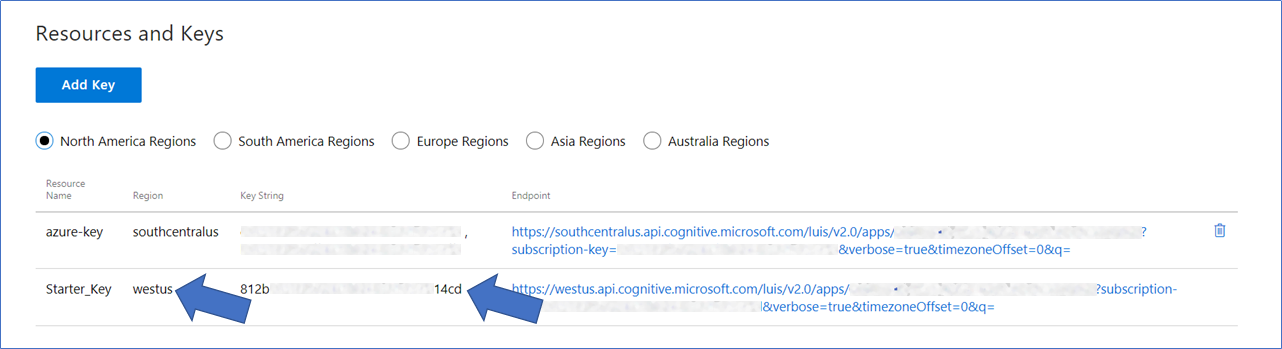
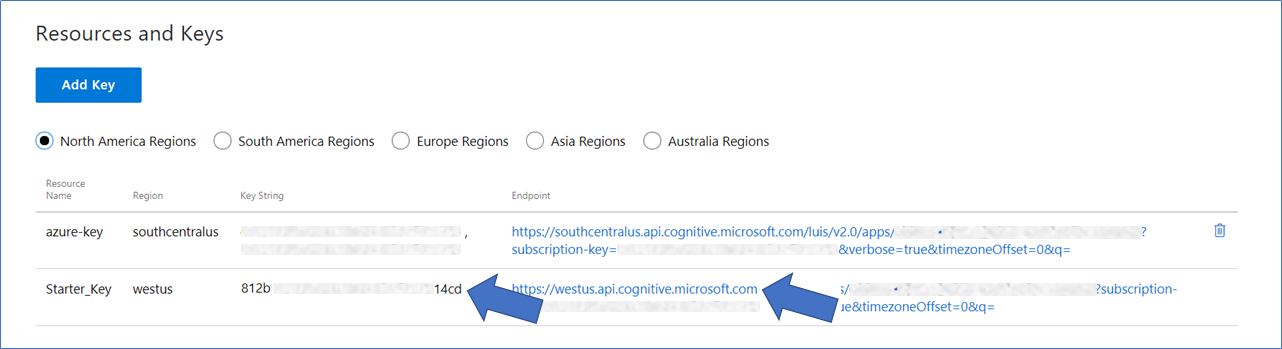
Updating Samples to reference SDK v2.0.0 (#50)
* Updating Samples to reference SDK v2.0.0

* Updating Runtime Readme

Changed region(s): [[0.1248, 0.8023, 0.2184, 0.9169], [0.5928, 0.7736, 0.6552, 0.9169]]

diff --git a/LUIS/Runtime/Microsoft.Azure.CognitiveServices.LUIS.Sample/Program.cs b/LUIS/Runtime/Microsoft.Azure.CognitiveServices.LUIS.Sample/Program.cs
@@ -42,8 +42,8 @@
                     if (input.Length > 0)
                     {
                         // Create client with SuscriptionKey and AzureRegion
-                        var client = new LUISRuntimeClient(new Uri(EndPoint),
-                        new ApiKeyServiceClientCredentials(SubscriptionKey));
+                        var client = new LUISRuntimeClient(new ApiKeyServiceClientCredentials(SubscriptionKey));
+                        client.Endpoint = EndPoint;
 
                         // Predict
                         var result = await client.Prediction.ResolveAsync(ApplicationId, input);

diff --git a/LUIS/Authoring/LUIS.Authoring.Sample/Program.cs b/LUIS/Authoring/LUIS.Authoring.Sample/Program.cs
@@ -17,8 +17,8 @@
         {
             ReadConfiguration();
 
-            EndPoint = EndPoint.Insert(EndPoint.Length - 5, "/api");
-            var client = new LUISAuthoringClient(new Uri(EndPoint), new ApiKeyServiceClientCredentials(ProgrammaticKey));
+            var client = new LUISAuthoringClient(new ApiKeyServiceClientCredentials(ProgrammaticKey));
+            client.Endpoint = EndPoint;
             var program = new BaseProgram(client, ProgrammaticKey);
 
             program.Run();

diff --git a/LUIS/Runtime/README.md b/LUIS/Runtime/README.md
@@ -24,7 +24,7 @@ If you want to test this sample, you have to import the pre-build [LuisApp.json]
 
 Once you imported the application you'll need to "train" the model ([Training](https://docs.microsoft.com/en-us/azure/cognitive-services/luis/train-test)) before you can "Publish" the model in an HTTP endpoint. For more information, take a look at [Publishing a Model](https://docs.microsoft.com/en-us/azure/cognitive-services/luis/publishapp).
 
-Finally, edit the [appsettings.json](Microsoft.Azure.CognitiveServices.LUIS.Sample/appsettings.json) file and update the attribute placeholders with the values corresponding to your Subscription, Application and Azure Region where the application was deployed.
+Finally, edit the [appsettings.json](Microsoft.Azure.CognitiveServices.LUIS.Sample/appsettings.json) file and update the attribute placeholders with the values corresponding to your Subscription, Application and endpoint URL.
 
 #### Where to find the Application ID and Subscription Key
 
@@ -36,9 +36,9 @@ You'll need these two values to configure the LuisDialog through the LuisModel a
 
     ![App Settings](images/prereqs-appid.png)
 
-2. Subscription Key and Azure Region
+2. Subscription Key and Endpoint URL
 
-    Click on the Publish App link from the top of the LUIS application dashboard. Once your app is published, copy the Region and Key String from *Starter_Key* from the Endpoints table on the Publish App page.
+    Click on the Publish App link from the top of the LUIS application dashboard. Once your app is published, copy the endpoint URL (https://westus.api.cognitive.microsoft.com) and Key String from *Starter_Key* from the Endpoints table on the Publish App page.
 
     ![Programmatic API Key](images/prereqs-apikey.png)
 
@@ -49,20 +49,17 @@ One of the key problems in human-computer interactions is the ability of the com
 
 Once your model is set, you can invoke de LUIS Runtime API to analize user input and obtain its intent and possible entities.
 
-From .NET you can use the *Microsoft.Azure.CognitiveServices.Language.LUIS* NuGet package. Once you have reference the library, you can start making call to the API.
+From .NET you can use the *Microsoft.Azure.CognitiveServices.Language.LUIS.Runtime* NuGet package. Once you have reference the library, you can start making call to the API.
 
 ````C#
-using Microsoft.Azure.CognitiveServices.Language.LUIS;
-using Microsoft.Azure.CognitiveServices.Language.LUIS.Models;
+using Microsoft.Azure.CognitiveServices.Language.LUIS.Runtime;
 
 // Create client with SuscriptionKey and AzureRegion
-ILuisRuntimeAPI client = new LuisRuntimeAPI(new ApiKeyServiceClientCredentials("[LUIS_SUBSCRIPTION_KEY]"))
-{
-    AzureRegion = AzureRegions.Westus
-};
+var client = new LUISRuntimeClient(new Uri([EndPointURL]),
+new ApiKeyServiceClientCredentials([LUIS_SUBSCRIPTION_KEY]));
 
 // Predict
-LuisResult result = await client.Prediction.ResolveAsync("[LUIS_APPLICATION_ID]", "Text to Predict or User input");
+var result = await client.Prediction.ResolveAsync([LUIS_APPLICATION_ID], "Text to Predict or User input");
 ````
 
 The [LuisResult](https://github.com/Azure/azure-sdk-for-net/blob/psSdkJson6/src/SDKs/CognitiveServices/dataPlane/Language/LUIS-Runtime/Generated/Models/LuisResult.cs) object contains the possible detected intents and entities that could be extracted from the input.

diff --git a/LUIS/Authoring/README.md b/LUIS/Authoring/README.md
@@ -4,7 +4,7 @@ platforms: dotnet
 author: cahann
 ---
 
-# Cognitive Services: LUIS Programmatic SDK Console Application Sample
+# Cognitive Services: LUIS Authoring SDK Console Application Sample
 
 A simple console that showcases how the SDK can be used to create and customize new LUIS apps.
 
@@ -16,11 +16,11 @@ The minimum prerequisites to run this sample are:
 
 ### How to run this sample
 
-The first step to using this sample app is to get your Programmatic Key. Go to the home page, [www.luis.ai](https://www.luis.ai/), and log in. After creating your LUIS account, a starter key, also known as a programmatic key, is created automatically for LUIS account. To find the programmatic key, click on the account name in the upper-right navigation bar to open [Account Settings](https://www.luis.ai/user/settings), which displays the Programmatic Key.
+The first step to using this sample app is to get your Authoring Key. Go to the home page, [www.luis.ai](https://www.luis.ai/), and log in. After creating your LUIS account, a starter key, also known as a Authoring Key, is created automatically for LUIS account. To find the Authoring Key, click on the account name in the upper-right navigation bar to open [Settings](https://www.luis.ai/user/settings), which displays the Authoring Key.
 
 ![Import an Existing Application](images/programmatic-key.png)
 
-Once you get the programmatic key, edit the [appsettings.json](LUIS-Programmatic.Sample/appsettings.json) file and update the attribute placeholders with the values corresponding to your Key and Azure Region.
+Once you get the Authoring Key, edit the [appsettings.json](LUIS-Programmatic.Sample/appsettings.json) file and update the attribute placeholders with the values corresponding to your Key and Endpoint URL, for example (https://westus.api.cognitive.microsoft.com)
 
 ### Highlights
 
